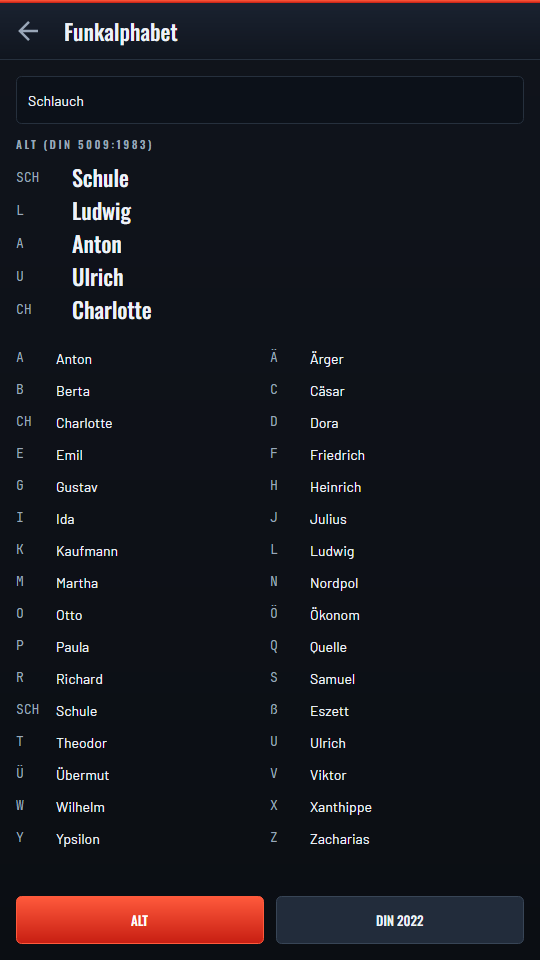
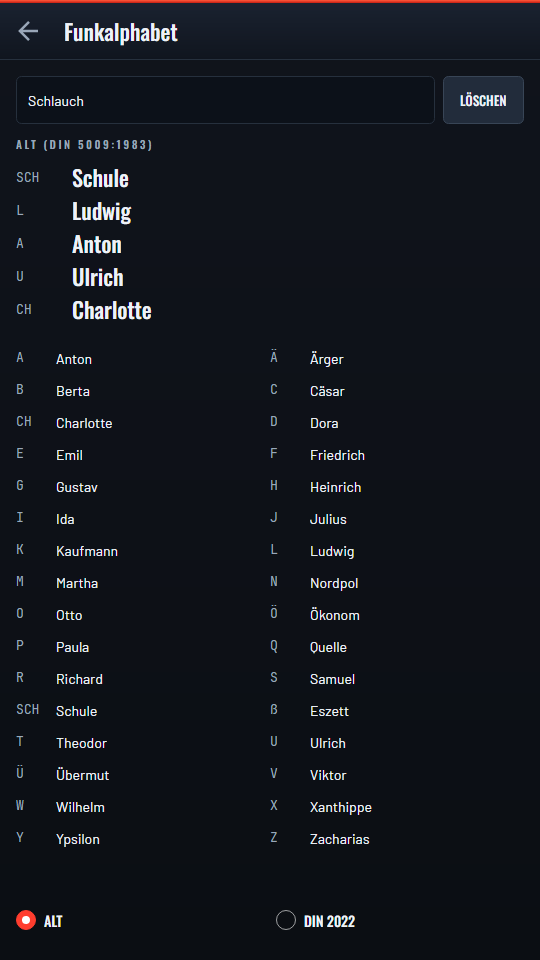
fix(funkalphabet): answer the review of the page
- The table switch is a RadioButton pair, so TalkBack hears the selected
  table. The shared RadioButton style moves down from the Schaummittel
  branch, unchanged.
- Suggestions and auto-capitalisation are off, so the keyboard cannot
  rewrite HLF or KdoW into a dictionary word.
- LÖSCHEN empties the field. Fluent's clearButton shows only while the
  field has focus, which does not work with gloves.
- Spelled is computed once per change instead of on every read, so the
  list no longer rebuilds twice per keystroke.

Changed region(s): [[0.0296, 0.9062, 0.9778, 1.0], [0.8, 0.0625, 0.9778, 0.1562]]

diff --git a/src/Helpers/Funkalphabet/Helfer.Helpers.Funkalphabet/FunkalphabetViewModel.cs b/src/Helpers/Funkalphabet/Helfer.Helpers.Funkalphabet/FunkalphabetViewModel.cs
@@ -10,35 +10,44 @@ namespace Helfer.Helpers.Funkalphabet;
 public sealed partial class FunkalphabetViewModel : ObservableObject
 {
     [ObservableProperty]
-    [NotifyPropertyChangedFor(nameof(Spelled))]
-    [NotifyPropertyChangedFor(nameof(HasSpelling))]
     private string? _text = string.Empty;
 
     [ObservableProperty]
     [NotifyPropertyChangedFor(nameof(TableName))]
     [NotifyPropertyChangedFor(nameof(IsAlt))]
     [NotifyPropertyChangedFor(nameof(IsDin2022))]
-    [NotifyPropertyChangedFor(nameof(Spelled))]
-    [NotifyPropertyChangedFor(nameof(HasSpelling))]
     [NotifyPropertyChangedFor(nameof(Entries))]
     private Buchstabiertafel _table = Buchstabiertafel.Alt;
+
+    [ObservableProperty]
+    [NotifyPropertyChangedFor(nameof(HasSpelling))]
+    private IReadOnlyList<CodeWord> _spelled = [];
 
     /// <summary>On screen at all times: the two tables give different words for every letter.</summary>
     public string TableName => IsAlt ? "ALT (DIN 5009:1983)" : "DIN 5009:2022";
 
-    public bool IsAlt => ReferenceEquals(Table, Buchstabiertafel.Alt);
+    public bool IsAlt
+    {
+        get => ReferenceEquals(Table, Buchstabiertafel.Alt);
+        set => Table = value ? Buchstabiertafel.Alt : Buchstabiertafel.Din2022;
+    }
 
-    public bool IsDin2022 => !IsAlt;
+    public bool IsDin2022
+    {
+        get => !IsAlt;
+        set => IsAlt = !value;
+    }
 
     public bool HasSpelling => Spelled.Count > 0;
 
-    public IReadOnlyList<CodeWord> Spelled => Table.Spell(Text ?? string.Empty);
-
     public IReadOnlyList<CodeWord> Entries => Table.Entries;
 
-    [RelayCommand]
-    private void UseAlt() => Table = Buchstabiertafel.Alt;
+    partial void OnTextChanged(string? value) => Respell();
+
+    partial void OnTableChanged(Buchstabiertafel value) => Respell();
 
     [RelayCommand]
-    private void UseDin2022() => Table = Buchstabiertafel.Din2022;
+    private void Clear() => Text = string.Empty;
+
+    private void Respell() => Spelled = Table.Spell(Text ?? string.Empty);
 }

diff --git a/tests/Helfer.Helpers.Funkalphabet.Tests/FunkalphabetViewModelTests.cs b/tests/Helfer.Helpers.Funkalphabet.Tests/FunkalphabetViewModelTests.cs
@@ -51,7 +51,7 @@ public class FunkalphabetViewModelTests
     {
         var vm = new FunkalphabetViewModel { Text = "ab" };
 
-        vm.UseDin2022Command.Execute(null);
+        vm.IsDin2022 = true;
 
         Assert.Equal("DIN 5009:2022", vm.TableName);
         Assert.True(vm.IsDin2022);
@@ -61,12 +61,44 @@ public class FunkalphabetViewModelTests
     }
 
     [Fact]
+    public void Unchecking_one_table_selects_the_other()
+    {
+        var vm = new FunkalphabetViewModel();
+
+        vm.IsAlt = false;
+        Assert.True(vm.IsDin2022);
+
+        vm.IsDin2022 = false;
+        Assert.True(vm.IsAlt);
+    }
+
+    [Fact]
+    public void Reading_the_spelling_twice_does_not_spell_twice()
+    {
+        var vm = new FunkalphabetViewModel { Text = "ab" };
+
+        Assert.Same(vm.Spelled, vm.Spelled);
+    }
+
+    [Fact]
+    public void Clearing_empties_the_field_and_the_spelling()
+    {
+        var vm = new FunkalphabetViewModel { Text = "ab" };
+
+        vm.ClearCommand.Execute(null);
+
+        Assert.Equal(string.Empty, vm.Text);
+        Assert.False(vm.HasSpelling);
+        Assert.Empty(vm.Spelled);
+    }
+
+    [Fact]
     public void Switching_back_returns_to_the_old_table()
     {
         var vm = new FunkalphabetViewModel { Text = "a" };
 
-        vm.UseDin2022Command.Execute(null);
-        vm.UseAltCommand.Execute(null);
+        vm.IsDin2022 = true;
+        vm.IsAlt = true;
 
         Assert.Equal(["Anton"], vm.Spelled.Select(c => c.Word));
     }
@@ -78,7 +110,7 @@ public class FunkalphabetViewModelTests
         var changed = new List<string?>();
         vm.PropertyChanged += (_, e) => changed.Add(e.PropertyName);
 
-        vm.UseDin2022Command.Execute(null);
+        vm.IsDin2022 = true;
 
         Assert.Contains(nameof(vm.TableName), changed);
         Assert.Contains(nameof(vm.IsAlt), changed);

diff --git a/tests/Helfer.Acceptance.Tests/DemoFlowRenderTests.cs b/tests/Helfer.Acceptance.Tests/DemoFlowRenderTests.cs
@@ -93,14 +93,23 @@ public class DemoFlowRenderTests
 
         phone.Capture("04-funkalphabet.png");
 
-        var din = phone.Window.GetVisualDescendants().OfType<Button>().Single(b => b.Name == "UseDin2022Button");
-        Assert.NotNull(din.Command);
-        din.Command.Execute(null);
+        var alt = phone.Window.GetVisualDescendants().OfType<RadioButton>().Single(b => b.Name == "AltTable");
+        var din = phone.Window.GetVisualDescendants().OfType<RadioButton>().Single(b => b.Name == "Din2022Table");
+        Assert.True(alt.IsChecked);
+        din.IsChecked = true;
         PhoneRender.Settle();
 
+        Assert.False(alt.IsChecked);
         Assert.Contains("DIN 5009:2022", Texts(phone.Window));
         Assert.Equal(
             ["Salzwedel", "Chemnitz", "Hamburg", "Leipzig", "Aachen", "Unna", "Chemnitz", "Hamburg"],
             SpelledWords(phone.Window));
+
+        var clear = phone.Window.GetVisualDescendants().OfType<Button>().Single(b => b.Name == "ClearButton");
+        Assert.NotNull(clear.Command);
+        clear.Command.Execute(null);
+        PhoneRender.Settle();
+
+        Assert.True(string.IsNullOrEmpty(input.Text));
     }
 }
